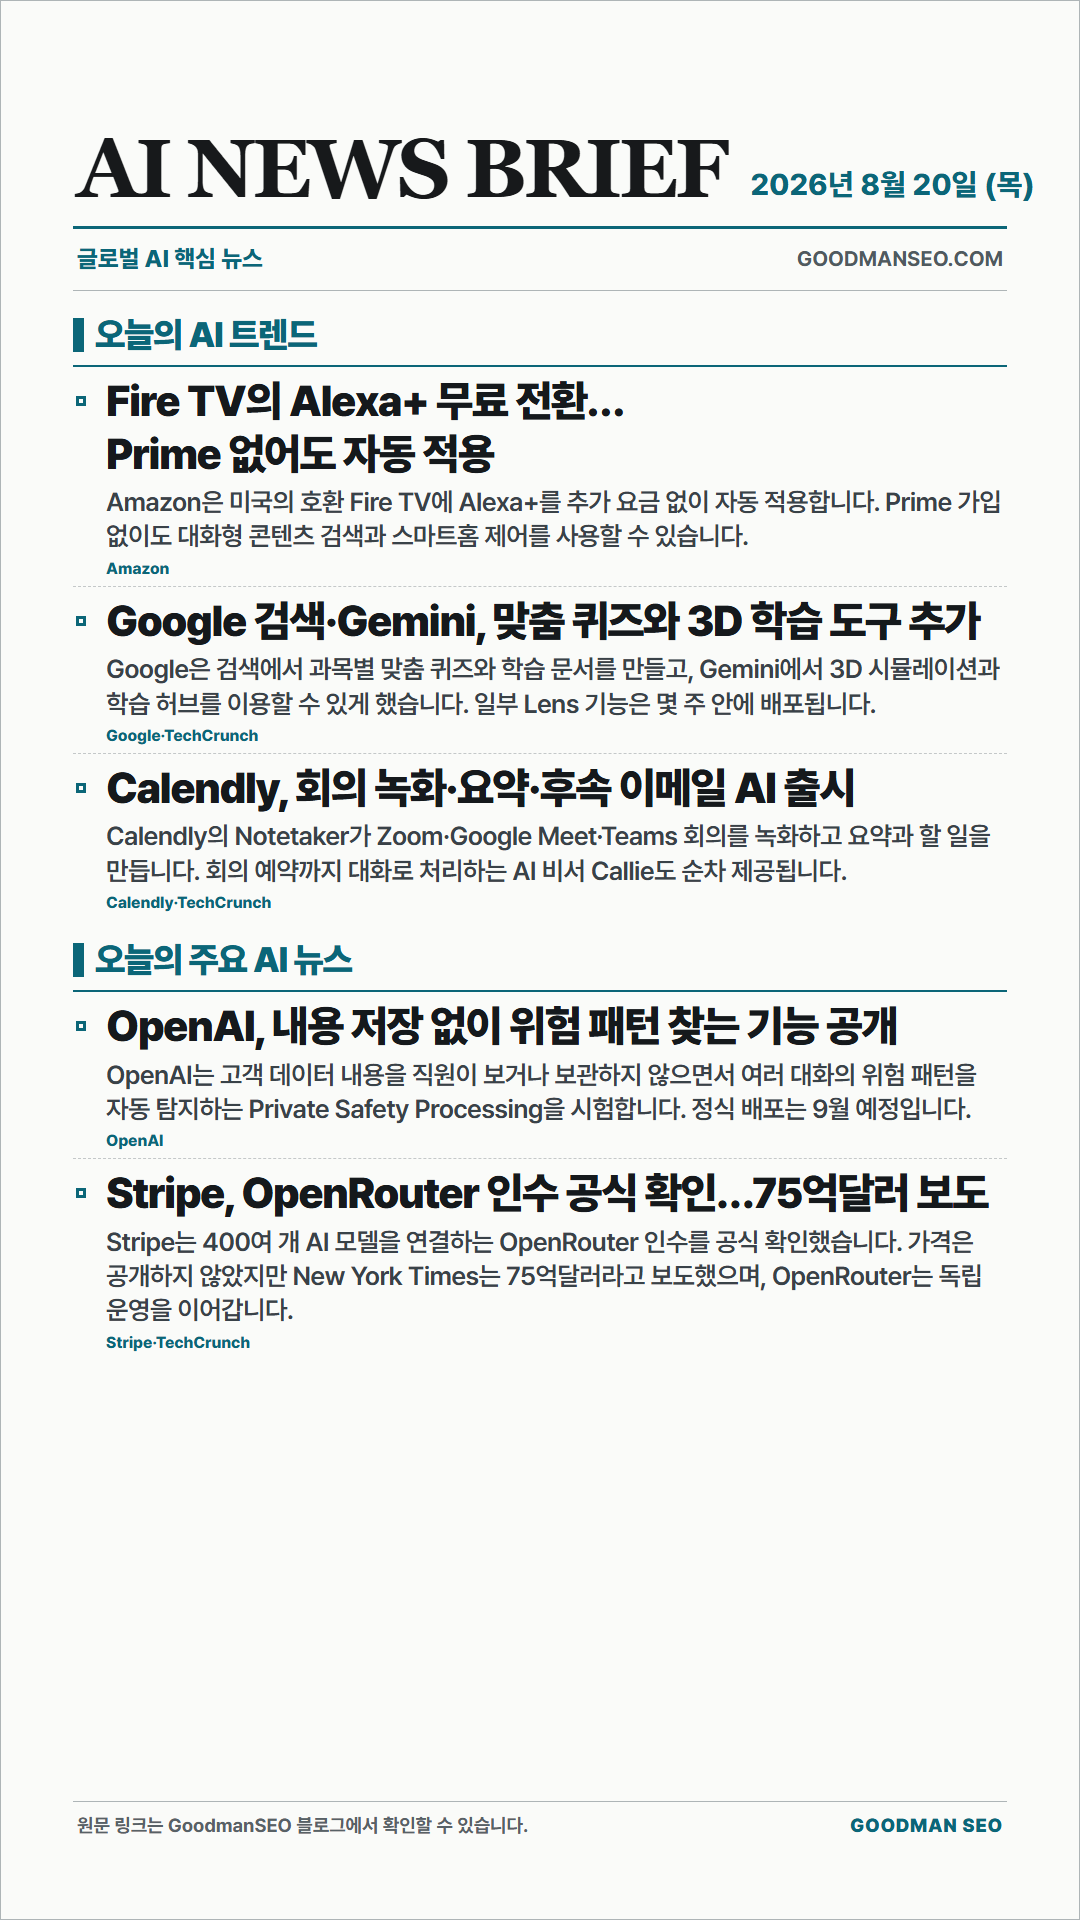
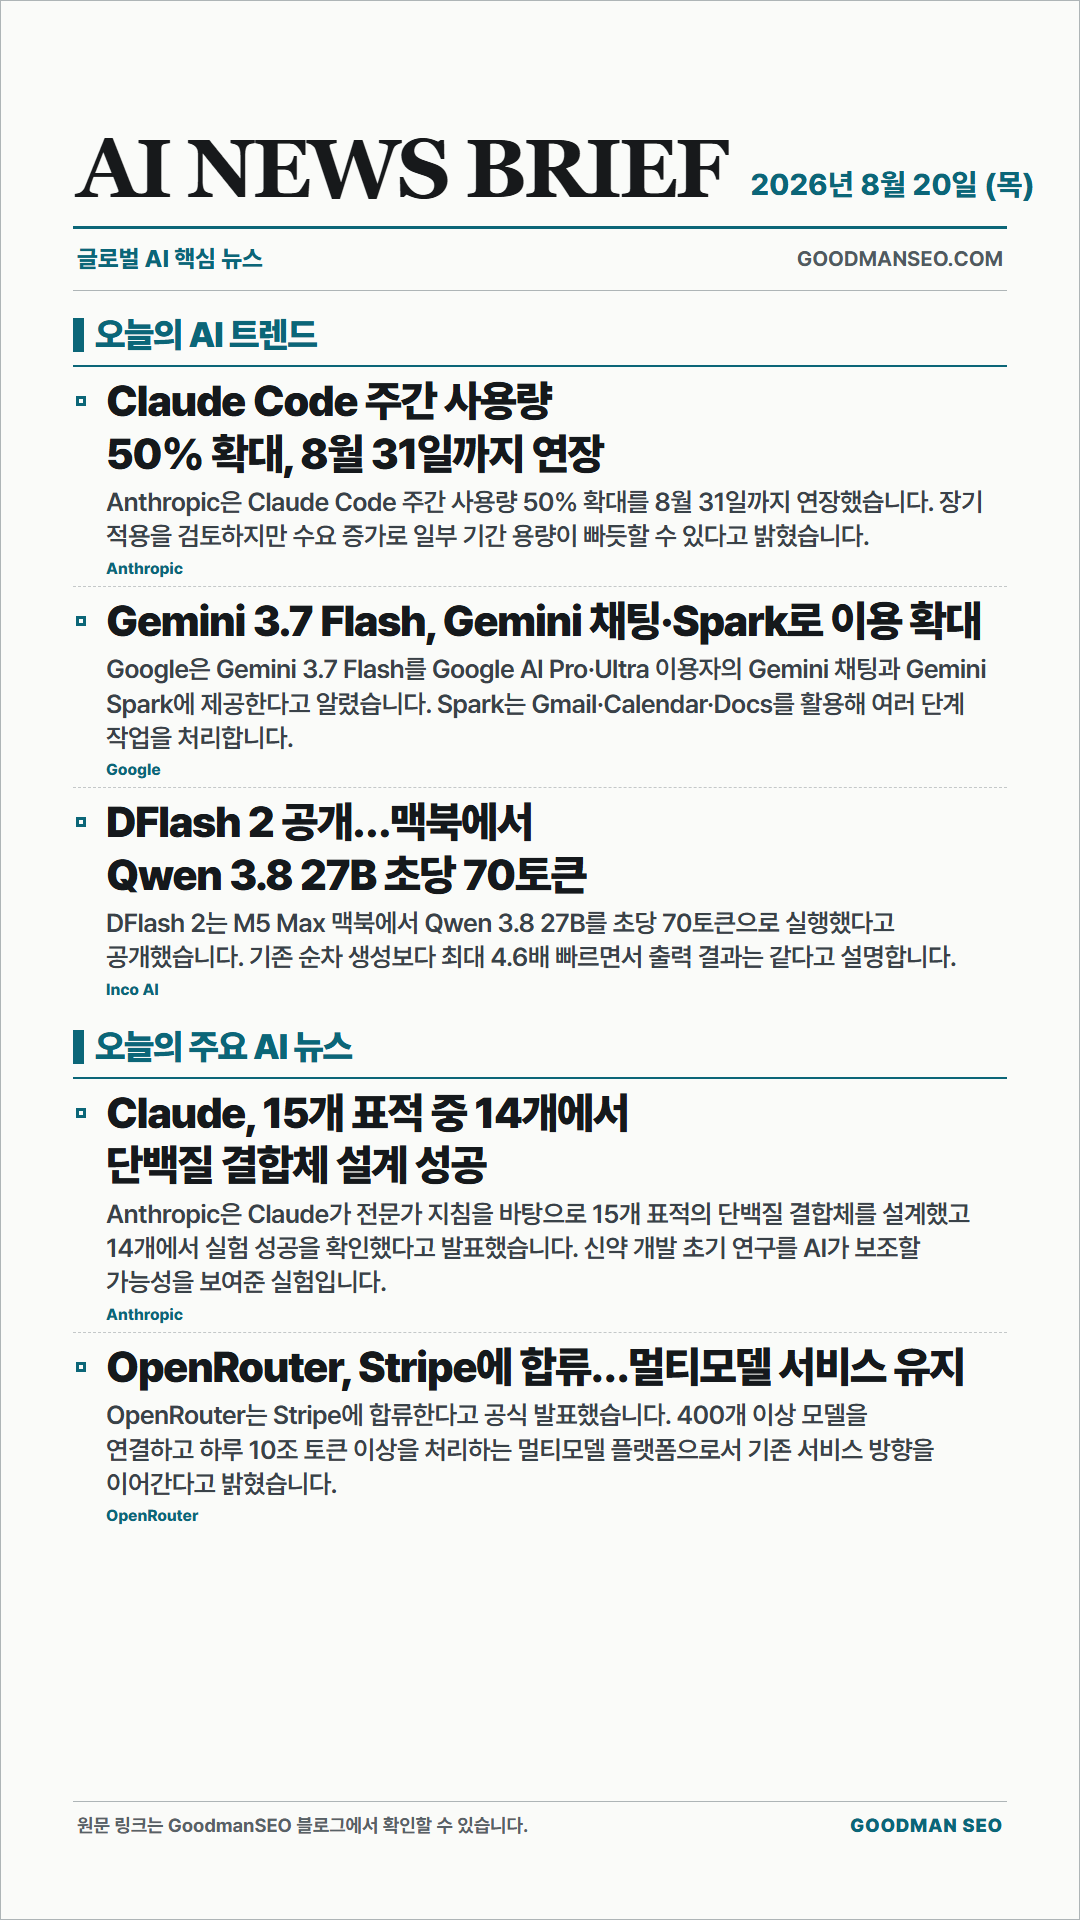
Revise August 20 AI news from Radar and X signals

Changed region(s): [[0.0611, 0.1875, 0.9167, 0.8125]]

diff --git a/src/data/blogPosts.js b/src/data/blogPosts.js
@@ -5,39 +5,39 @@ export const blogPosts = [
     author: 'Goodman SEO',
     title: 'AI 키뉴스 브리프 | 2026년 8월 20일',
     excerpt:
-      'Fire TV Alexa+ 무료 전환, Google AI 학습 도구, Calendly 회의 기록 AI, OpenAI 개인정보 보호, Stripe의 OpenRouter 인수 등 오늘 주목할 AI 소식 5건을 정리했습니다.',
+      'Claude Code 사용량 확대, Gemini 3.7 Flash 이용 확대, DFlash 2 로컬 AI 속도, Claude 단백질 설계, OpenRouter의 Stripe 합류 등 오늘 주목할 AI 소식 5건을 정리했습니다.',
     category: 'AI 키뉴스',
     kind: 'ai-key-news',
     image: '/blog/ai-keynews-2026-08-20.png',
     imageAlt:
-      '2026년 8월 20일 Fire TV Alexa+ 무료 전환, Google AI 학습 도구, Calendly 회의 기록 AI, OpenAI 개인정보 보호, Stripe의 OpenRouter 인수 등 AI 트렌드와 주요 뉴스 5건을 담은 AI NEWS BRIEF',
+      '2026년 8월 20일 Claude Code 사용량 확대, Gemini 3.7 Flash 이용 확대, DFlash 2 로컬 AI 속도, Claude 단백질 설계, OpenRouter의 Stripe 합류 등 AI 트렌드와 주요 뉴스 5건을 담은 AI NEWS BRIEF',
     imageLayout: 'portrait',
-    keywords: ['AI 키뉴스', '오늘의 AI 뉴스', 'Alexa+', 'Gemini', 'Calendly', 'OpenAI', 'OpenRouter'],
+    keywords: ['AI 키뉴스', '오늘의 AI 뉴스', 'Claude Code', 'Gemini 3.7 Flash', 'DFlash 2', 'Anthropic', 'OpenRouter'],
     content: [
       {
         type: 'newsSection',
         title: '오늘의 AI 트렌드',
         items: [
           {
-            headline: 'Fire TV의 Alexa+ 무료 전환…Prime 없어도 자동 적용',
+            headline: 'Claude Code 주간 사용량 50% 확대, 8월 31일까지 연장',
             summary:
-              'Amazon은 미국의 호환 Fire TV에 Alexa+를 추가 요금 없이 자동 적용합니다. Prime 가입 없이도 대화형 콘텐츠 검색과 스마트홈 제어를 사용할 수 있습니다.',
-            source: 'Amazon',
-            url: 'https://www.aboutamazon.com/news/devices/alexa-plus-fire-tv-free-ai',
+              'Anthropic은 Claude Code 주간 사용량 50% 확대를 8월 31일까지 연장했습니다. 장기 적용을 검토하지만 수요 증가로 일부 기간 용량이 빠듯할 수 있다고 밝혔습니다.',
+            source: 'Anthropic',
+            url: 'https://x.com/ClaudeDevs/status/2089798442306711646',
           },
           {
-            headline: 'Google 검색·Gemini, 맞춤 퀴즈와 3D 학습 도구 추가',
+            headline: 'Gemini 3.7 Flash, Gemini 채팅·Spark로 이용 확대',
             summary:
-              'Google은 검색에서 과목별 맞춤 퀴즈와 학습 문서를 만들고, Gemini에서 3D 시뮬레이션과 학습 허브를 이용할 수 있게 했습니다. 일부 Lens 기능은 몇 주 안에 배포됩니다.',
-            source: 'Google·TechCrunch',
-            url: 'https://techcrunch.com/2026/08/19/google-launches-new-study-tools-for-students-across-search-and-gemini/',
+              'Google은 Gemini 3.7 Flash를 Google AI Pro·Ultra 이용자의 Gemini 채팅과 Gemini Spark에 제공한다고 알렸습니다. Spark는 Gmail·Calendar·Docs를 활용해 여러 단계 작업을 처리합니다.',
+            source: 'Google',
+            url: 'https://x.com/Google/status/2090113238436315618',
           },
           {
-            headline: 'Calendly, 회의 녹화·요약·후속 이메일 AI 출시',
+            headline: 'DFlash 2 공개…맥북에서 Qwen 3.8 27B 초당 70토큰',
             summary:
-              'Calendly의 Notetaker가 Zoom·Google Meet·Teams 회의를 녹화하고 요약과 할 일을 만듭니다. 회의 예약까지 대화로 처리하는 AI 비서 Callie도 순차 제공됩니다.',
-            source: 'Calendly·TechCrunch',
-            url: 'https://techcrunch.com/2026/08/19/calendly-throws-its-hat-into-meeting-note-taker-circus/',
+              'DFlash 2는 M5 Max 맥북에서 Qwen 3.8 27B를 초당 70토큰으로 실행했다고 공개했습니다. 기존 순차 생성보다 최대 4.6배 빠르면서 출력 결과는 같다고 설명합니다.',
+            source: 'Inco AI',
+            url: 'https://inco.ai/blog/dflash2/',
           },
         ],
       },
@@ -46,18 +46,18 @@ export const blogPosts = [
         title: '오늘의 주요 AI 뉴스',
         items: [
           {
-            headline: 'OpenAI, 내용 저장 없이 위험 패턴 찾는 기능 공개',
+            headline: 'Claude, 15개 표적 중 14개에서 단백질 결합체 설계 성공',
             summary:
-              'OpenAI는 고객 데이터 내용을 직원이 보거나 보관하지 않으면서 여러 대화의 위험 패턴을 자동 탐지하는 Private Safety Processing을 시험합니다. 정식 배포는 9월 예정입니다.',
-            source: 'OpenAI',
-            url: 'https://openai.com/index/offering-zero-data-retention-for-frontier-models/',
+              'Anthropic은 Claude가 전문가 지침을 바탕으로 15개 표적의 단백질 결합체를 설계했고 14개에서 실험 성공을 확인했다고 발표했습니다. 신약 개발 초기 연구를 AI가 보조할 가능성을 보여준 실험입니다.',
+            source: 'Anthropic',
+            url: 'https://www.anthropic.com/research/Claude-accelerates-protein-design',
           },
           {
-            headline: 'Stripe, OpenRouter 인수 공식 확인…75억달러 보도',
+            headline: 'OpenRouter, Stripe에 합류…멀티모델 서비스 유지',
             summary:
-              'Stripe는 400여 개 AI 모델을 연결하는 OpenRouter 인수를 공식 확인했습니다. 가격은 공개하지 않았지만 New York Times는 75억달러라고 보도했으며, OpenRouter는 독립 운영을 이어갑니다.',
-            source: 'Stripe·TechCrunch',
-            url: 'https://techcrunch.com/2026/08/19/stripe-didnt-really-buy-openrouter-because-of-the-singularity/',
+              'OpenRouter는 Stripe에 합류한다고 공식 발표했습니다. 400개 이상 모델을 연결하고 하루 10조 토큰 이상을 처리하는 멀티모델 플랫폼으로서 기존 서비스 방향을 이어간다고 밝혔습니다.',
+            source: 'OpenRouter',
+            url: 'https://openrouter.ai/blog/announcements/openrouter-is-joining-stripe/',
           },
         ],
       },

diff --git a/docs/current-status.md b/docs/current-status.md
@@ -44,7 +44,7 @@ Treat those scores as report claims unless re-verified in the current thread.
 
 Additional work log:
 
-- 2026-08-20 daily AI key news: published `/blog/ai-keynews-2026-08-20/` with exactly five verified items: three reader-interest trends covering free Alexa+ on Fire TV, Google's new study tools, and Calendly's AI meeting assistant, plus two major stories on OpenAI's private safety processing and Stripe's confirmed OpenRouter acquisition. Generated the public `1080x1920` story/X image with a `30px` date, stored the `1080x1350` Instagram image with a `23px` date under `_workspace` only, registered the dated sitemap entry, and prepared platform-specific X, Instagram, and Threads copy without external posting.
+- 2026-08-20 daily AI key news: initially published with five verified items, then revised after making fresh AI News Radar plus authenticated Apify/X collection the mandatory primary discovery layer. The edition now leads with Claude Code's 50% weekly-limit extension, Gemini 3.7 Flash availability in Gemini chat and Spark, and DFlash 2's local Mac speed demo, followed by Claude's protein-binder results and OpenRouter joining Stripe. The public `1080x1920` image and local-only `1080x1350` Instagram image were regenerated from the revised data, and the platform copy was replaced without external posting.
 - 2026-08-19 AI key-news date legibility: increased the date from `25px` to `30px` on public `1080x1920` images and from `19px` to `23px` on local Instagram `1080x1350` images. The change starts with the next generated edition; the already-published August 19 images were not replaced.
 - 2026-08-19 daily AI key news: published `/blog/ai-keynews-2026-08-19/` with three reader-interest trends and two major AI news items covering Cursor Origin, ChatGPT for Teens, camera-equipped AirPods reporting, OpenAI's security controls, and Anthropic's reported annualized revenue. Generated the public `1080x1920` story/X image, stored the `1080x1350` Instagram image under `_workspace` only, registered the dated sitemap entry, and prepared platform-specific X, Instagram, and Threads copy without external posting. The daily automation now selects exactly five verified items, normally three trends plus two major news items.
 - 2026-08-18 daily AI key news: published `/blog/ai-keynews-2026-08-18/` with three reader-interest trends and one major industry story covering Amazon's reported rare-book AI training, Wispr Flow's new Canto speech model, Relay's shutdown and Chrome-team move, and Nvidia's OpenAI data-center investment. Generated the public `1080x1920` story/X image, stored the `1080x1350` Instagram image under `_workspace` only, registered the dated sitemap entry, and prepared platform-specific X, Instagram, and Threads copy without external posting.

diff --git a/wiki/concepts/content-system.md b/wiki/concepts/content-system.md
@@ -31,9 +31,9 @@ Decision:
 Workflow:
 
 - `goal`: Publish a factual Korean AI brief whose page and image contain the same news.
-- `inputs`: Recent AI News Radar signals plus each selected item’s original source.
-- `steps`: Check feed freshness; select exactly five verified items, normally three reader-interest trends plus two major AI news items; verify original pages; add one dated post with `newsSection` blocks; generate the public `1080x1920` story/X image and local-only `1080x1350` Instagram image; draft distinct X, Instagram, and Threads copy; update the sitemap; lint, build, inspect desktop/mobile, deploy, and verify the public image URL and private Instagram-image state.
-- `stop_rule`: Do not invent, translate an unverified aggregator claim, force filler, or publish when the original source cannot confirm the key fact.
+- `inputs`: Fresh AI News Radar `latest-24h.json` and `daily-brief.json`, an authenticated Apify/X search sample, and each selected item’s original source.
+- `steps`: Verify Radar freshness; run Apify broad and topic-specific X searches; rank candidates by cross-source repetition, official-account engagement, recency, and reader appeal; select exactly five verified items, normally three reader-interest trends plus two major AI news items; verify original pages; add or update one dated post with `newsSection` blocks; generate the public `1080x1920` story/X image and local-only `1080x1350` Instagram image; draft distinct X, Instagram, and Threads copy; update the sitemap; lint, build, inspect desktop/mobile, deploy, and verify the public image URL and private Instagram-image state.
+- `stop_rule`: Do not silently skip Radar or Apify, invent or translate an unverified aggregator claim, force filler, or publish when either discovery source remains unavailable after retries or the original source cannot confirm the key fact.
 
 Design rule:
 

diff --git a/wiki/log.md b/wiki/log.md
@@ -1,5 +1,7 @@
 # Wiki Log
 
+- 2026-08-20: Revised the daily AI key-news edition after making fresh AI News Radar and authenticated Apify/X collection the mandatory primary discovery layer. The five items now cover Claude Code's 50% weekly-limit extension, Gemini 3.7 Flash availability, DFlash 2's local Mac speed demo, Claude's protein-binder results, and OpenRouter joining Stripe; both image ratios and platform copy were regenerated without external posting.
+
 - 2026-08-20: Published exactly five verified AI key-news items: three reader-interest trends and two major AI news items. The `1080x1920` image uses the enlarged `30px` date, the `1080x1350` Instagram image uses `23px` and remains local-only, and platform-specific copy was prepared without external posting.
 
 - 2026-08-19: Increased the AI key-news date to `30px` on public story/X images and `23px` on local Instagram images, starting with the next generated edition. Existing published images remain unchanged.

diff --git a/CLAUDE.md b/CLAUDE.md
@@ -80,6 +80,7 @@ High-level current priorities:
 GoodmanSEO also publishes one global AI key-news brief per day. Preserve these rules:
 
 - publish one searchable Korean blog post and one matching `1080x1920` PNG image
+- use fresh AI News Radar data and an authenticated Apify/X search sample as mandatory primary discovery inputs, then verify every selected fact against its original source
 - cover global AI only; do not force an Australia angle
 - use 3 to 6 high-signal items verified against original sources
 - keep the writing factual and compact, without GoodmanSEO commentary or filler
